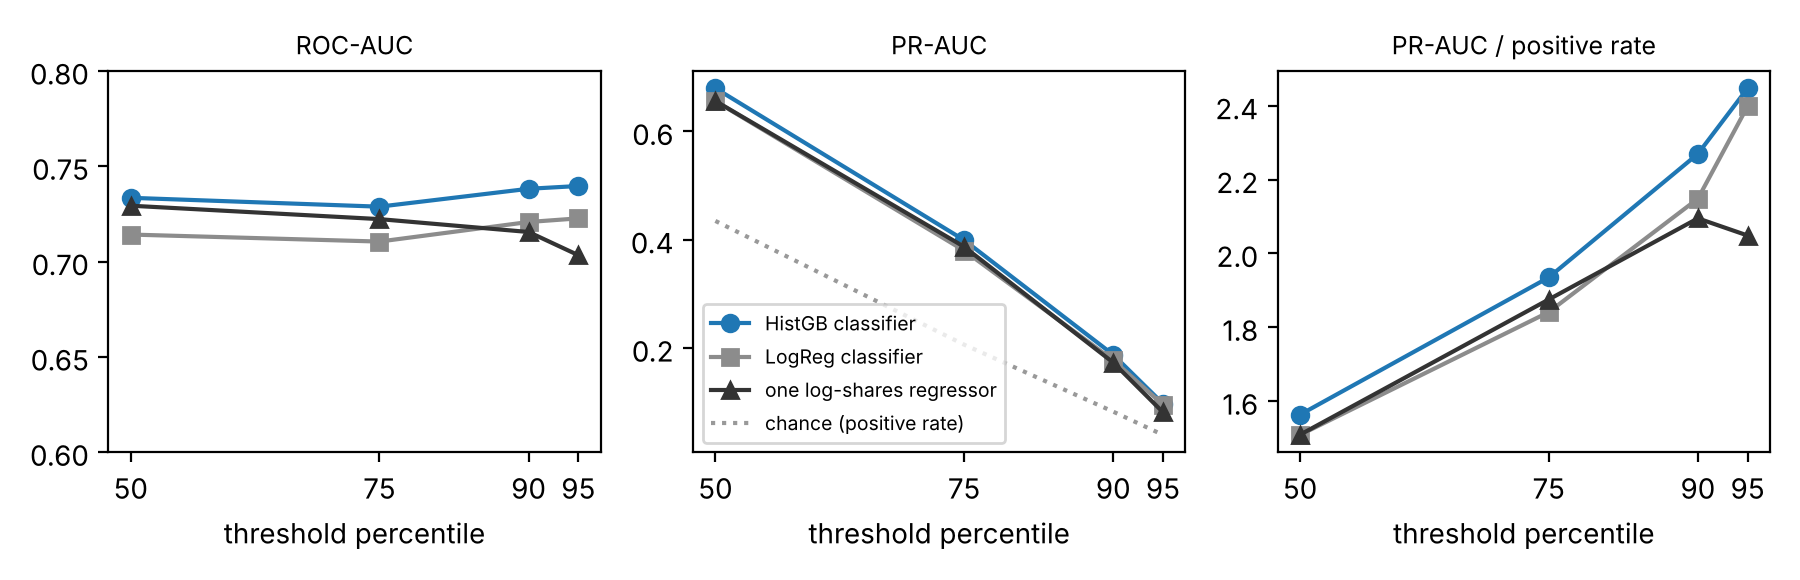
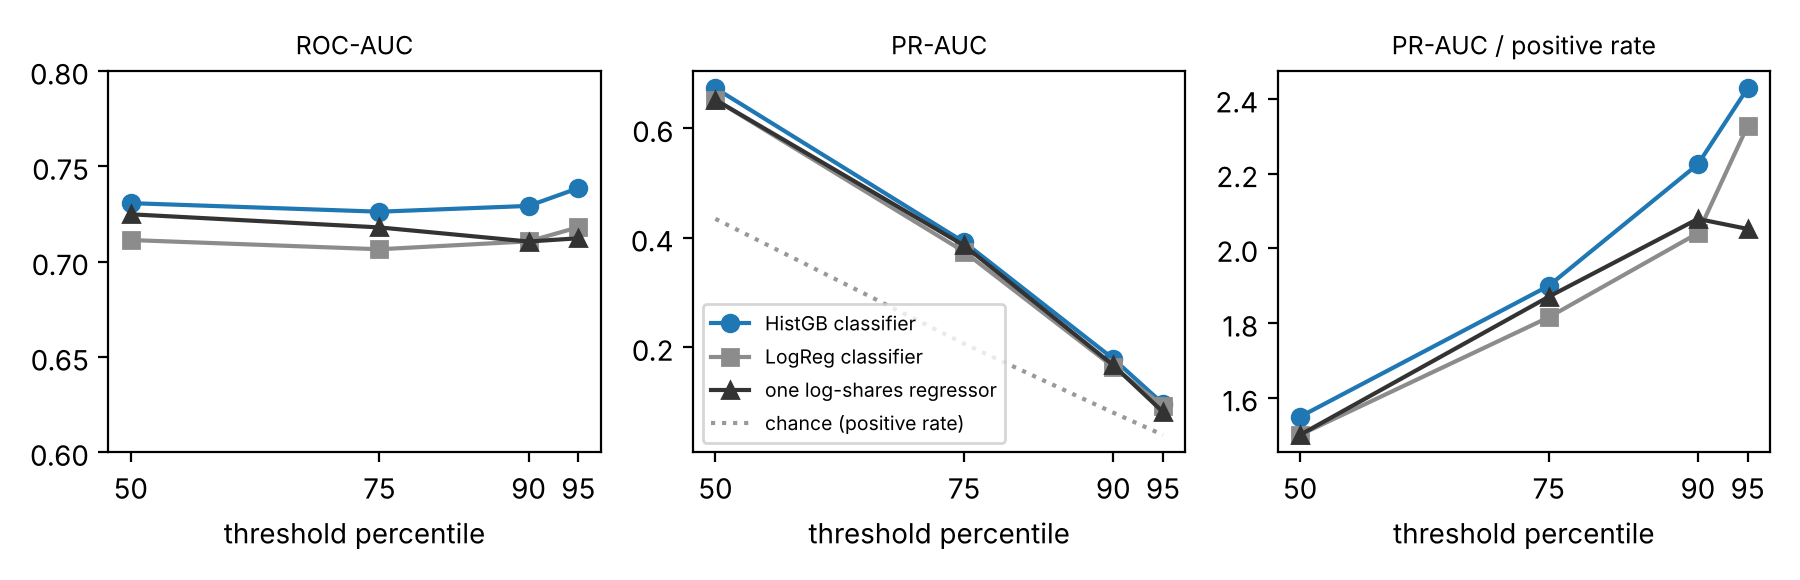
R5: E4 cutoffs chosen on validation, bootstrap and paired comparisons (#12)
The decision cutoff was previously set from test-score quantiles
(transductive). Models are now fit on the training block, the F1 cutoff
is chosen on validation, and classifier vs regressor is a paired
bootstrap.

Claude-Session: https://claude.ai/code/session_01TCfNdN2Zn6ui1ME3kdmCGP

diff --git a/scripts/e4_threshold.py b/scripts/e4_threshold.py
@@ -1,8 +1,10 @@
 """E4 (RQ3) - How does the choice of popularity threshold change the task?
 
-Thresholds at the 50/75/90/95th percentile of training shares. For each we train
+Thresholds at the 50/75/90/95th percentile of training-block shares. For each we train
 dedicated classifiers and compare with ONE regressor on log(shares) whose predictions
-are used as a ranking score for every threshold.
+are used as a ranking score for every threshold. Models are fit on the training block;
+the F1 decision cutoff is chosen on the validation block; the test block is scored once.
+Bootstrap CIs; paired bootstrap for classifier vs regressor.
 
 Run from the repo root:  python scripts/e4_threshold.py
 """
@@ -16,9 +18,10 @@ import numpy as np
 import pandas as pd
 from scipy.stats import spearmanr
 from sklearn.ensemble import HistGradientBoostingRegressor
+from sklearn.metrics import average_precision_score, roc_auc_score
 
 from newspop.data import ROOT, feature_set, load, make_label
-from newspop.evaluate import classification_report
+from newspop.evaluate import bootstrap_ci, classification_report, paired_bootstrap
 from newspop.models import fit, get_model
 from newspop.splits import temporal_split
 
@@ -28,37 +31,53 @@ TAB = ROOT / "results" / "tables"
 QUANTILES = [0.5, 0.75, 0.9, 0.95]
 
 
+def f1_cutoff(y_val, s_val):
+    """Decision cutoff that maximises F1 on the validation block (never looks at test)."""
+    from sklearn.metrics import f1_score
+    cands = np.quantile(s_val, np.linspace(0.01, 0.99, 99))
+    return float(max(cands, key=lambda c: f1_score(y_val, s_val >= c)))
+
+
 def main():
     df = load()
     n = len(df)
     tr, va, te = temporal_split(n, 0.7, 0.1)
-    trv = np.concatenate([tr, va])
-    rows = []
+    rows, pairs = [], []
     for fs in ["all", "no_kw_ref"]:
         X = df[feature_set(df, fs)].to_numpy()
-        reg = HistGradientBoostingRegressor(random_state=0).fit(X[trv], np.log1p(df.shares.iloc[trv]))
-        score = reg.predict(X[te])
-        rho = spearmanr(score, df.shares.iloc[te]).statistic
+        # everything is fit on the training block; the validation block only picks cutoffs
+        reg = HistGradientBoostingRegressor(random_state=0).fit(X[tr], np.log1p(df.shares.iloc[tr]))
+        s_va, s_te = reg.predict(X[va]), reg.predict(X[te])
+        rho = spearmanr(s_te, df.shares.iloc[te]).statistic
         print(f"{fs}: regressor Spearman(pred, shares) on test = {rho:.3f}")
         for q in QUANTILES:
-            thr = df.shares.iloc[trv].quantile(q)
+            thr = df.shares.iloc[tr].quantile(q)
             y = make_label(df.shares, thr)
+            test_scores = {}
             for m in ["logreg", "hgb"]:
-                mod = fit(get_model(m, 0), X[trv], y[trv])
-                p = mod.predict_proba(X[te])[:, 1]
-                # decision threshold = training positive rate quantile, so the
-                # classifier flags as many articles as are popular in training
-                cut = np.quantile(p, 1 - y[trv].mean())
-                r = classification_report(y[te], p, threshold=cut)
-                rows.append({"features": fs, "quantile": q, "threshold": thr, "model": m, **r})
-            r = classification_report(y[te], score, threshold=np.quantile(score, 1 - y[trv].mean()))
+                mod = fit(get_model(m, 0), X[tr], y[tr])
+                p_va, p_te = mod.predict_proba(X[va])[:, 1], mod.predict_proba(X[te])[:, 1]
+                test_scores[m] = p_te
+                r = classification_report(y[te], p_te, threshold=f1_cutoff(y[va], p_va))
+                auc, lo, hi = bootstrap_ci(y[te], p_te)
+                rows.append({"features": fs, "quantile": q, "threshold": thr, "model": m, **r,
+                             "auc_lo": lo, "auc_hi": hi, "n_pos_test": int(y[te].sum())})
+            test_scores["reg"] = s_te
+            r = classification_report(y[te], s_te, threshold=f1_cutoff(y[va], s_va))
+            auc, lo, hi = bootstrap_ci(y[te], s_te)
             rows.append({"features": fs, "quantile": q, "threshold": thr, "model": "log_regression_score",
-                         **r, "spearman": rho})
+                         **r, "auc_lo": lo, "auc_hi": hi, "n_pos_test": int(y[te].sum()), "spearman": rho})
+            for metric_name, metric in [("roc_auc", roc_auc_score), ("pr_auc", average_precision_score)]:
+                pb = paired_bootstrap(y[te], test_scores["hgb"], test_scores["reg"], metric=metric)
+                pairs.append({"features": fs, "quantile": q, "metric": metric_name,
+                              "hgb_minus_regressor": pb["diff"], "lo": pb["lo"], "hi": pb["hi"]})
     out = pd.DataFrame(rows)
     out["pr_auc_lift"] = out["pr_auc"] / out["pos_rate"]
     out.to_csv(TAB / "e4_threshold.csv", index=False)
-    print(out[["features", "quantile", "threshold", "model", "pos_rate", "roc_auc", "pr_auc",
-               "pr_auc_lift", "f1"]].round(3).to_string())
+    pd.DataFrame(pairs).to_csv(TAB / "e4_classifier_vs_regressor.csv", index=False)
+    print(out[["features", "quantile", "threshold", "model", "n_pos_test", "pos_rate", "roc_auc", "auc_lo",
+               "auc_hi", "pr_auc", "pr_auc_lift", "f1"]].round(3).to_string())
+    print(pd.DataFrame(pairs).round(3).to_string())
 
     # figure: ROC-AUC flat, PR-AUC falls, lift rises (HistGB, all features)
     s = out[(out.features == "all")]

diff --git a/report/main.tex b/report/main.tex
@@ -81,7 +81,7 @@ Limitation: earlier shares measured in Jan 2015.}
 % Fig: e3b_staircase.png (+ e3_ablation.png)
 
 \subsection{Threshold, data size and regularisation (RQ3)}
-\todo{E4: ROC flat, PR-AUC 0.68$\to$0.10, lift 1.56$\to$2.45; regressor vs classifier.
+\todo{E4: ROC 0.726--0.739, PR-AUC 0.67$\to$0.10, lift 1.55$\to$2.43; classifier beats regressor by 0.026 [0.005, 0.047] at 95th pct.
 E5: RF best $<$10k, HistGB with full data, linear plateaus at 3k.
 E6: regularisation only matters at 1k articles (+0.03); 7-feature L1 model.}
 % Figs: e4_threshold.png, e5_learning_curve.png, e6_regularisation.png (combine!)

diff --git a/docs/results/e4_e6.md b/docs/results/e4_e6.md
@@ -1,29 +1,37 @@
 # E4–E6 — Threshold, training-set size, regularisation (RQ3)
 
-Scripts: `scripts/e4_threshold.py` (~20 s), `scripts/e5_learning_curve.py` (~2 min),
+Scripts: `scripts/e4_threshold.py` (~4 min), `scripts/e5_learning_curve.py` (~2 min),
 `scripts/e6_regularisation.py` (~1.5 min). Chronological split; E4/E5 test on the newest 20%,
 E6 uses the 10% validation block only. Tables `results/tables/e4_*`, `e5_*`, `e6_*`.
 
 ## E4 — Popularity threshold
 
-Thresholds = 50/75/90/95th percentile of training shares (1,500 / 2,900 / 6,400 / 11,200).
+> Revised for review item R5: models are fit on the training block only, the F1 decision cutoff
+> is chosen on the validation block (the first version set it from test-score quantiles), and the
+> test block is scored once. 95% bootstrap CIs; classifier vs regressor by paired bootstrap.
+
+Thresholds = 50/75/90/95th percentile of training-block shares (1,500 / 2,900 / 6,500 / 11,300).
 HistGB, all features:
 
-| Percentile | Positives in test | ROC-AUC | PR-AUC | PR-AUC ÷ positive rate |
-| --- | --- | --- | --- | --- |
-| 50 | 43.5% | 0.733 | 0.680 | 1.56 |
-| 75 | 20.6% | 0.729 | 0.399 | 1.94 |
-| 90 | 8.3% | 0.738 | 0.188 | 2.27 |
-| 95 | 4.0% | 0.740 | 0.098 | 2.45 |
+| Percentile | Positives in test | ROC-AUC [95% CI] | PR-AUC | PR-AUC ÷ positive rate | F1 |
+| --- | --- | --- | --- | --- | --- |
+| 50 | 3,447 (43.5%) | 0.731 [0.719, 0.743] | 0.673 | 1.55 | 0.658 |
+| 75 | 1,637 (20.6%) | 0.726 [0.712, 0.739] | 0.392 | 1.90 | 0.460 |
+| 90 | 638 (8.0%) | 0.729 [0.710, 0.747] | 0.179 | 2.23 | 0.240 |
+| 95 | 316 (4.0%) | 0.739 [0.712, 0.764] | 0.097 | 2.43 | 0.171 |
 
-- ROC-AUC barely moves (0.73–0.74), while PR-AUC falls from 0.68 to 0.10. Reporting accuracy or
-  ROC-AUC alone hides how hard "will this go viral?" really is.
-- Relative to chance, the model is *better* at spotting the top 5% (2.45× lift) than the top 50% (1.56×).
-- One regressor on log(shares) used as a score matches the classifiers at the median (ROC-AUC 0.729)
-  but falls behind at the 95th percentile (0.703 vs 0.740): a dedicated classifier pays off for the
-  extreme tail.
+- ROC-AUC stays within 0.726–0.739 (overlapping intervals) while PR-AUC falls from 0.67 to 0.10.
+  Reporting accuracy or ROC-AUC alone hides how hard "will this go viral?" is.
+- Relative to chance the model is better at spotting the top 5% (2.43× lift) than the top 50% (1.55×).
+- **Dedicated classifier vs one log-shares regressor** (HistGB, ROC-AUC difference, paired 95% CI):
+  0.006 [0.001, 0.011] at the median, 0.008 [0.001, 0.016] at the 75th, 0.019 [0.006, 0.033] at the
+  90th and 0.026 [0.005, 0.047] at the 95th percentile. The classifier's advantage grows towards the
+  tail and is detectable, though the 95th-percentile interval is wide (316 positives). For PR-AUC
+  the differences are not detectable except at the median (0.021 [0.010, 0.032]). Without the
+  share-derived features only the 90th-percentile gap is detectable (0.015 [0.002, 0.030]).
+- The F1-optimal cutoff picked on validation transfers poorly to the tail: F1 0.17 at the 95th percentile.
 - The test set has only 43.5% positives at the training median — the drift from E1 again.
-- Without `kw_*`/`self_reference_*` every number drops by 0.02–0.04 but the pattern is the same.
+- Table: `results/tables/e4_threshold.csv`, paired comparisons `e4_classifier_vs_regressor.csv`.
 
 ## E5 — Learning curves
 

diff --git a/docs/TASKS.md b/docs/TASKS.md
@@ -29,7 +29,7 @@ Review notes (2026-11-12): https://claude.ai/artifact/UnYjVnCpepjSA6yGzj5XMr —
 - [x] **R2 Main results table (#9):** tune HistGB, RF, LogReg, kNN on the validation block; touch test once; bootstrap 95% CIs for everything. Add bootstrap + paired-comparison helpers to `newspop/evaluate.py`. Reviewer's HistGB test AUC 0.733 [0.720, 0.743] → 0.01-level differences are "no detectable difference".
 - [x] **R3 E1 (#10):** error bars on monthly AUC (else no "decay" claim); rewrite "strong covariate shift" per the clock finding; add label-shift correction (shift probabilities to validation positive rate) as a one-line negative result (accuracy 0.667→0.661, Brier worse).
 - [x] **R4 E3 ablation (#11):** report paired differences across rolling folds with intervals, not two means with separate sds.
-- [ ] **R5 E4:** decision threshold currently set with `np.quantile` on test scores (transductive peeking) → set it on the validation block. Paired bootstrap CI for regressor vs classifier at the 95th percentile (~300 positives).
+- [x] **R5 E4 (#12):** decision threshold currently set with `np.quantile` on test scores (transductive peeking) → set it on the validation block. Paired bootstrap CI for regressor vs classifier at the 95th percentile (~300 positives).
 - [ ] **R6 E7:** negative-sentiment effect is confounded by channel → CMH test or logistic regression with channel. Isolation Forest: profile the outliers; contamination 1% and 5% too.
 - [ ] **R7 E2:** half-life weighting under rolling-origin folds, paired differences, written as a negative result tied to "ranking is stable".
 - [ ] **R8 Misc:** state the threshold convention once (overall median 1,400 vs training-block median 1,500); drop jupyter from requirements.txt; compile LaTeX early.
